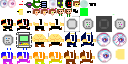
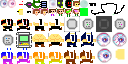
Add boys NPC: friendly companions with 2x jump height and aggressive shooting

diff --git a/appBoys.js b/appBoys.js
@@ -58,8 +58,8 @@ class Boy extends Character
         
         // Appearance - using tiles2.png, no head/eyes
         // Use a full character sprite from tiles2.png (full tile, not small item)
-        // Using tile 24 as a full character sprite (next after girls at 23)
-        this.bodyTile = 24; // Full character sprite from tiles2.png
+        // Using tile 22 as a full character sprite (8px by 8px tile index)
+        this.bodyTile = 22; // Full character sprite from tiles2.png
         this.tileSize = vec2(8); // Full character tile size (8x8 pixels, same as other characters)
         this.color = new Color(1, 1, 1); // No tint - white/default color
         this.sizeScale = 0.7;
@@ -146,8 +146,9 @@ class Boy extends Character
         }
         
         // Cap upward velocity to prevent flying into sky
-        if (this.velocity.y > 0.25)
-            this.velocity.y = 0.25;
+        // Boys can jump higher, so allow higher upward velocity (0.35)
+        if (this.velocity.y > 0.35)
+            this.velocity.y = 0.35;
 
         // ========== ENEMY DETECTION ==========
         const sightCheckFrames = 9;
@@ -356,21 +357,21 @@ class Boy extends Character
 
         // ========== SILENT JUMP (after super.update) ==========
         // Handle jump manually to avoid jump sound
-        // Boys jump 1.5x higher than girls
+        // Boys jump 2x higher than girls
         if (this.wantsToJump && wasOnGround && !this.jumpTimer.active())
         {
-            // 1.5x jump height: 0.15 * 1.5 = 0.225
-            this.velocity.y = 0.225;
-            this.jumpTimer.set(0.2);
+            // 2x jump height: 0.15 * 2 = 0.3
+            this.velocity.y = 0.3;
+            this.jumpTimer.set(0.4); // Longer timer for 2x jump height (2x of 0.2)
             this.preventJumpTimer.set(0.4); // Reasonable cooldown
             this.groundTimer.unset();
         }
         
-        // Jump continuation for holding jump - also 1.5x
+        // Jump continuation for holding jump - also 2x
         if (this.jumpTimer.active() && this.holdingJump && this.velocity.y > 0)
         {
-            // 1.5x jump continuation: 0.015 * 1.5 = 0.0225
-            this.velocity.y += 0.0225;
+            // 2x jump continuation: 0.015 * 2 = 0.03
+            this.velocity.y += 0.03;
         }
         
         // Ensure weapon protection
@@ -480,11 +481,8 @@ class Boy extends Character
         if (!isOverlapping(this.pos, this.size, cameraPos, renderWindowSize))
             return;
 
-        // Set tile to use (walking animation)
-        this.tileIndex = this.isDead() ? this.bodyTile : 
-                        (this.climbingLadder || this.groundTimer.active() ? 
-                         this.bodyTile + 2*(this.walkCyclePercent|0) : 
-                         this.bodyTile + 1);
+        // Always use original sprite for all states (walking, jumping, climbing)
+        this.tileIndex = this.bodyTile;
 
         const sizeScale = this.sizeScale;
         // No color tint - use white/default color
@@ -516,10 +514,17 @@ function spawnBoys(spawnPos)
     
     // Always spawn 1 new boy at the beginning of every level
     // Spawn beside player (to the right side) to avoid collision
-    // Use a spacing that accounts for existing boys to prevent overlap
+    // Offset boys to spawn after girls to prevent visual overlap
     const spacing = 2.0; // Space between boys (2 units apart)
     const baseOffset = 1.5; // Base offset from checkpoint (to the right)
-    const offsetX = baseOffset + survivingBoys.length * spacing; // Spread out based on existing boys
+    // Calculate how many girls exist to offset boys after them
+    let girlCount = 0;
+    if (typeof survivingGirls !== 'undefined' && typeof cleanupSurvivingGirls === 'function')
+    {
+        cleanupSurvivingGirls();
+        girlCount = survivingGirls.length;
+    }
+    const offsetX = baseOffset + girlCount * spacing + survivingBoys.length * spacing; // Spawn after all girls
     const offset = vec2(offsetX, 0);
     const boy = new Boy(spawnPos.add(offset));
     survivingBoys.push(boy);
@@ -546,9 +551,16 @@ function respawnSurvivingBoys(spawnPos)
     cleanupSurvivingBoys();
     
     // Respawn surviving boys beside checkpoint (to avoid collision with player)
-    // Spread them out horizontally so they don't overlap
+    // Offset boys to spawn after girls to prevent visual overlap
     const spacing = 2.0; // Space between boys (2 units apart)
     const baseOffset = 1.5; // Base offset from checkpoint (to the right)
+    // Calculate how many girls exist to offset boys after them
+    let girlCount = 0;
+    if (typeof survivingGirls !== 'undefined' && typeof cleanupSurvivingGirls === 'function')
+    {
+        cleanupSurvivingGirls();
+        girlCount = survivingGirls.length;
+    }
     
     let index = 0;
     for(const boy of survivingBoys)
@@ -556,8 +568,8 @@ function respawnSurvivingBoys(spawnPos)
         if (!boy || boy.destroyed || boy.isDead())
             continue;
             
-        // Reset position beside checkpoint, spread out horizontally
-        const offsetX = baseOffset + index * spacing;
+        // Reset position beside checkpoint, spread out horizontally after girls
+        const offsetX = baseOffset + girlCount * spacing + index * spacing;
         boy.pos = spawnPos.add(vec2(offsetX, 0));
         boy.velocity = vec2(0, 0);
         boy.health = boy.healthMax;

diff --git a/appGirls.js b/appGirls.js
@@ -514,11 +514,8 @@ class Girl extends Character
         if (!isOverlapping(this.pos, this.size, cameraPos, renderWindowSize))
             return;
 
-        // Set tile to use (walking animation)
-        this.tileIndex = this.isDead() ? this.bodyTile : 
-                        (this.climbingLadder || this.groundTimer.active() ? 
-                         this.bodyTile + 2*(this.walkCyclePercent|0) : 
-                         this.bodyTile + 1);
+        // Always use original sprite for all states (walking, jumping, climbing)
+        this.tileIndex = this.bodyTile;
 
         const sizeScale = this.sizeScale;
         const color = this.color.scale(this.burnColorPercent(), 1);

diff --git a/server.js b/server.js
@@ -77,3 +77,4 @@ server.listen(port, () => {
 
 
 
+
